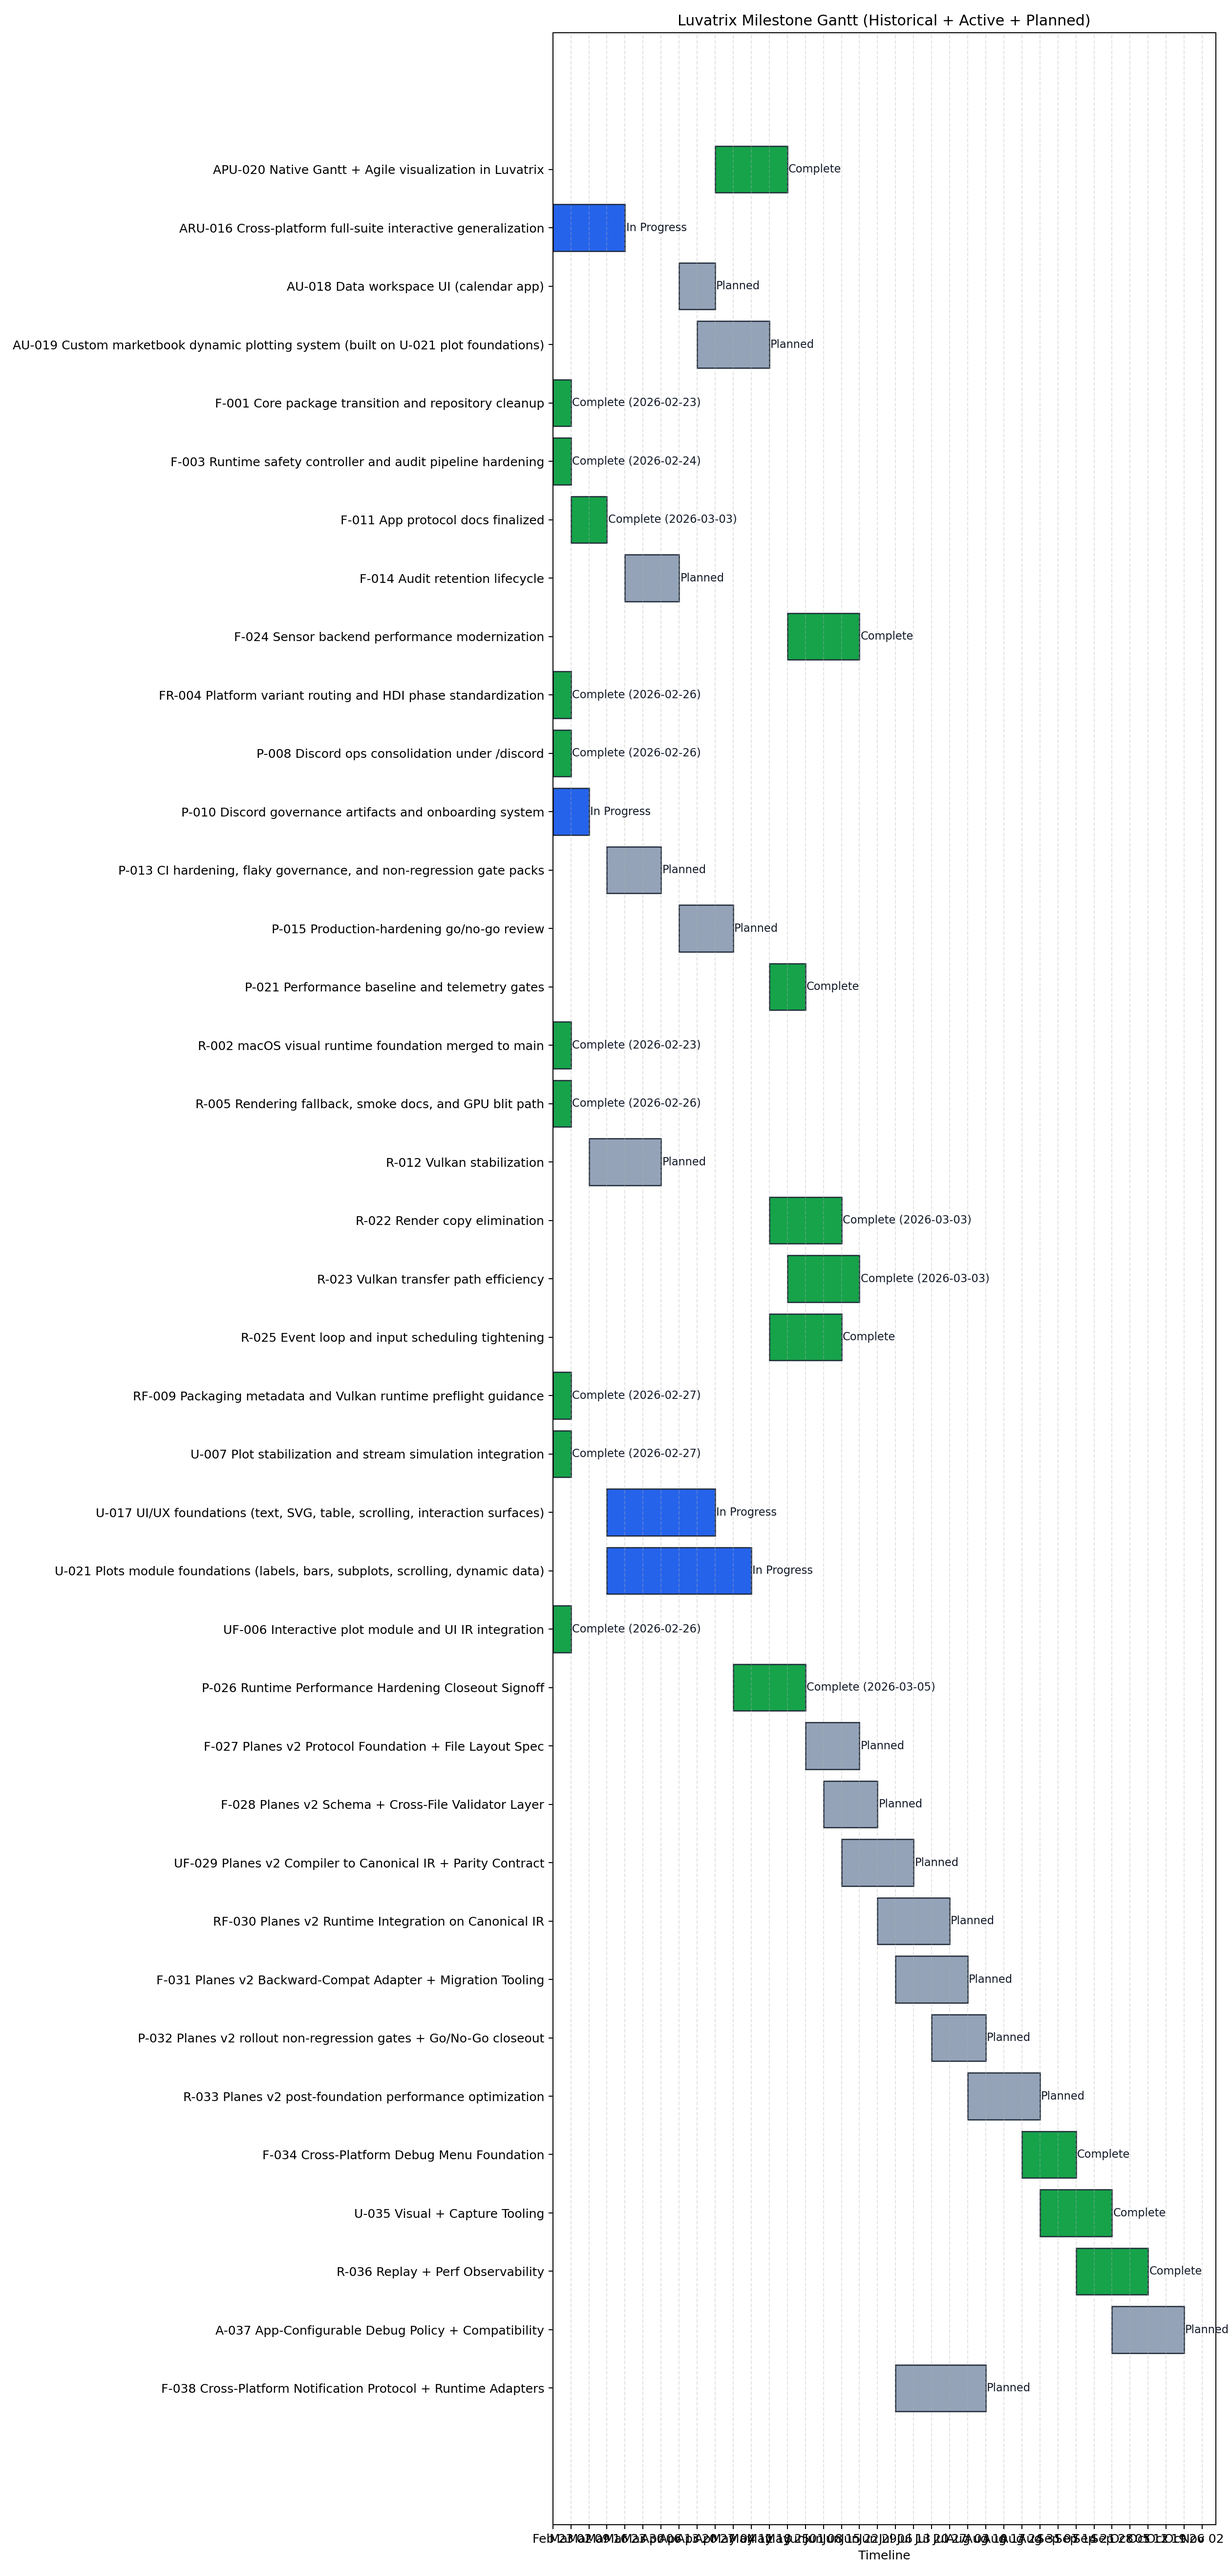
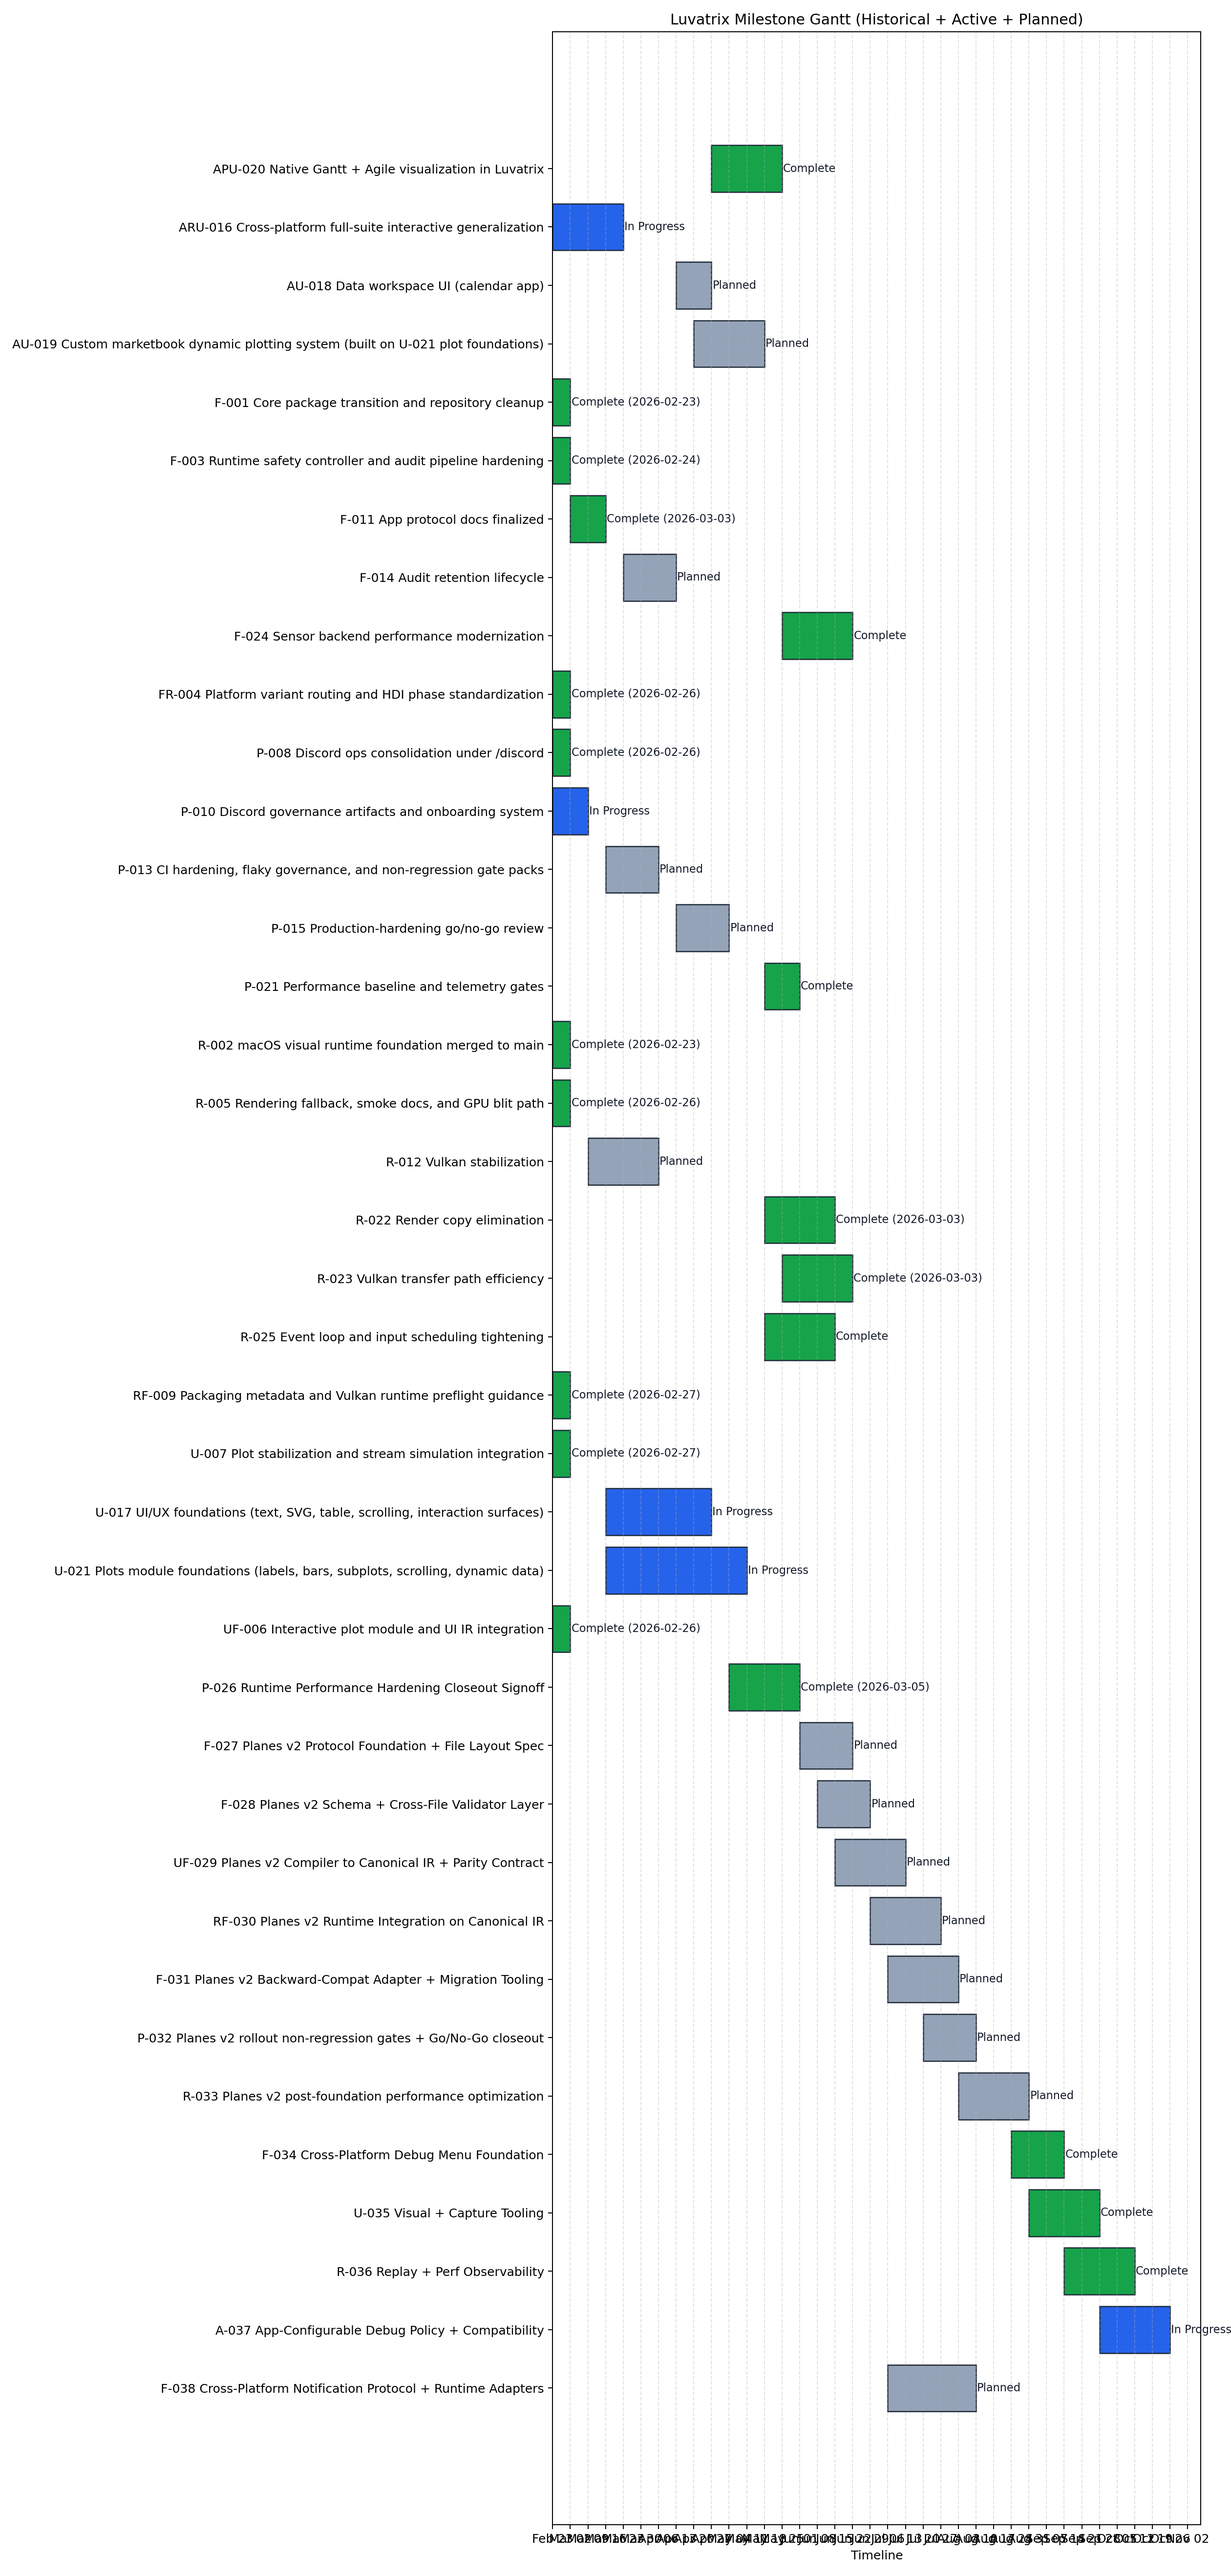
chore(planning): set A-037 in progress and advance T-2923 to integration ready

diff --git a/ops/planning/gantt/milestones_gantt.md b/ops/planning/gantt/milestones_gantt.md
@@ -43,7 +43,7 @@ R-033 📈 Planes v2 post-foundation performance optimization                   
 F-034 🛡 Cross-Platform Debug Menu Foundation                                         |                                                                                                                                                                                      =====================                                          | Complete
 U-035 🖼 Visual + Capture Tooling                                                     |                                                                                                                                                                                             ============================                            | Complete
 R-036 🎛 Replay + Perf Observability                                                  |                                                                                                                                                                                                           ============================              | Complete
-A-037 🧩 App-Configurable Debug Policy + Compatibility                                 |                                                                                                                                                                                                                         ~~~~~~~~~~~~~~~~~~~~~~~~~~~~| Planned
+A-037 🧩 App-Configurable Debug Policy + Compatibility                                 |                                                                                                                                                                                                                         ############################| In Progress
 F-038 🔔 Cross-Platform Notification Protocol + Runtime Adapters                       |                                                                                                                                     ~~~~~~~~~~~~~~~~~~~~~~~~~~~~~~~~~~~                                                                             | Planned
 
 Legend: '=' Complete, '#' In Progress, '~' Planned, '!' At Risk, 'x' Blocked
@@ -419,7 +419,7 @@ Legend: '=' Complete, '#' In Progress, '~' Planned, '!' At Risk, 'x' Blocked
   - Milestone Go/No-Go is macOS-context only in this phase, with reopen intent for broader platform coverage.
 
 ### A-037 🧩 App-Configurable Debug Policy + Compatibility
-- Status: Planned
+- Status: In Progress
 - Target window: Week 32-35
 - Tasks: `T-2923, T-2910`
 - Lifecycle events:
